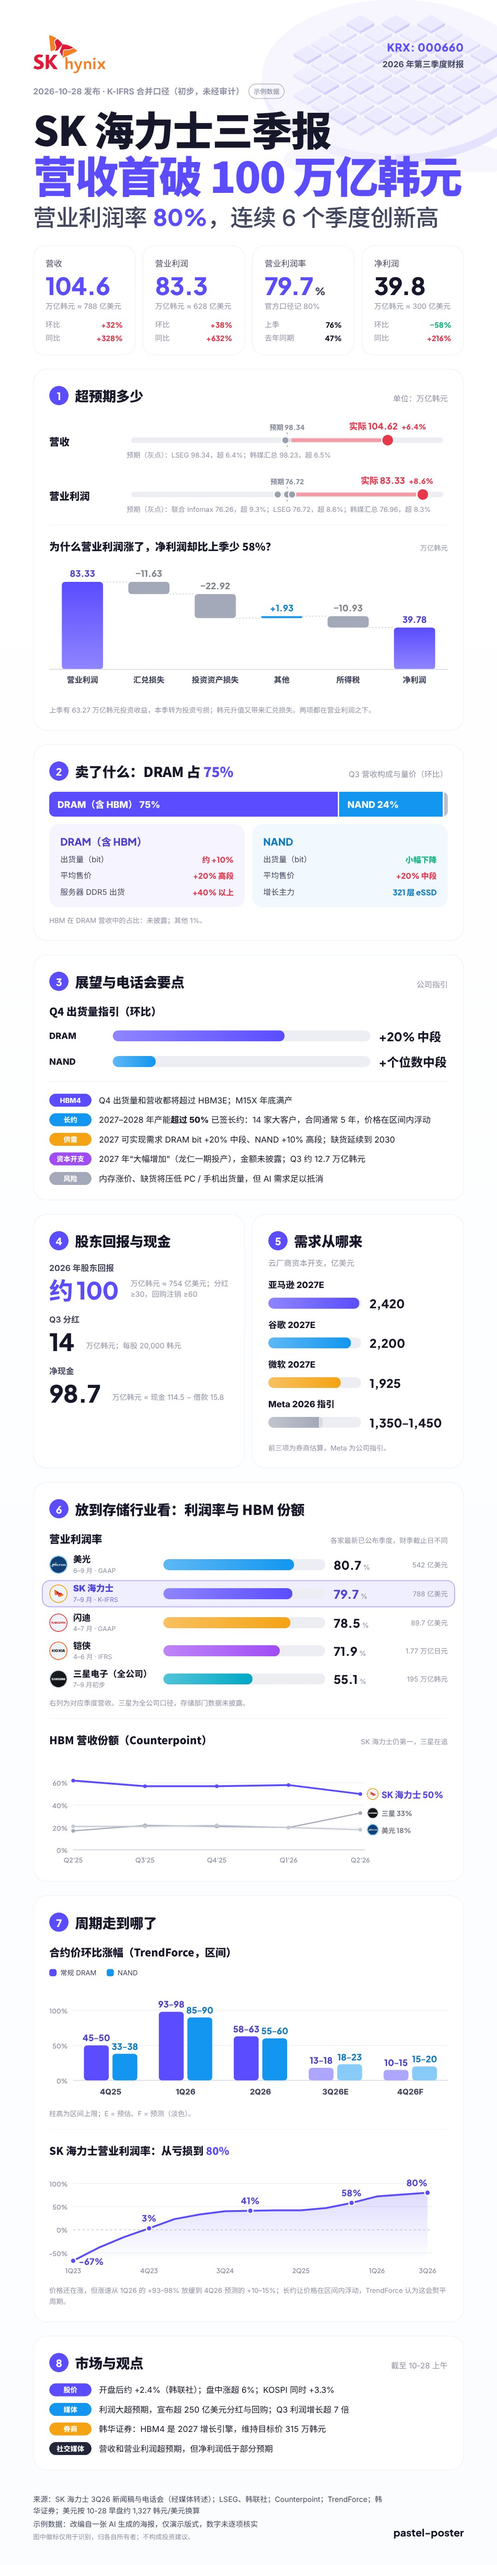
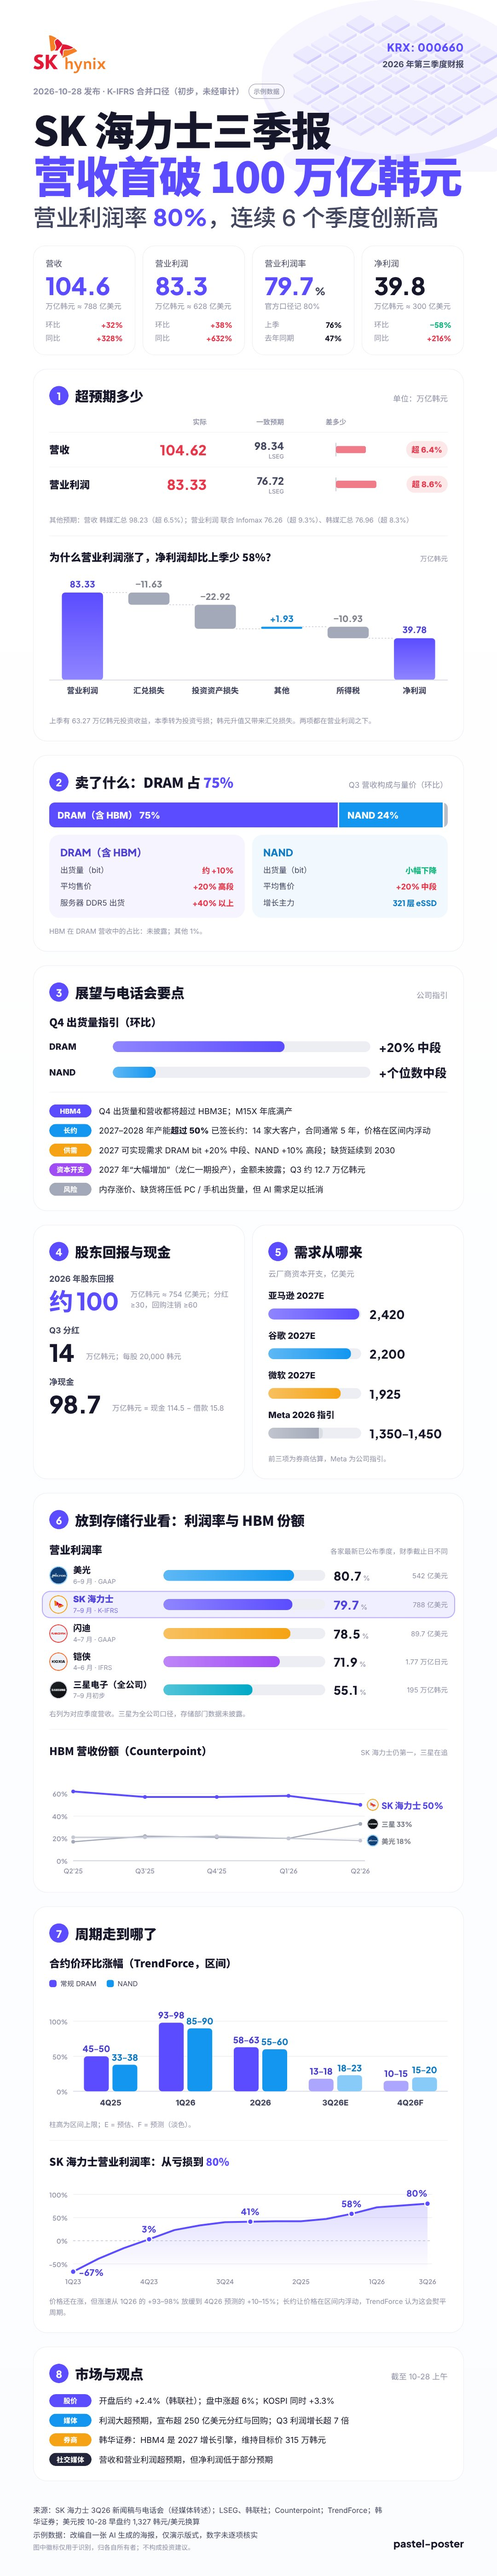
预期对比（beat）改成记分卡：指标 | 实际 | 一致预期 | 偏离条 | 结论 (#9)
原来的灰点、彩点、虚线要先懂图例才看得懂；改成逐行对照，结论直接写“超 6.4% / 低 9.4% / 符合”。
第一家预期作对比基准，其余列在下方；支持区间指引、单位、口径小字；并排时自动收成两列。
文档写清用法约束，校验提醒把公司指引放在第一家、缺预期、超过 6 行。

Claude-Session: https://claude.ai/code/session_0139H7ZCURJBvAAQ8BsmNvxP

diff --git a/skill/pastel-poster/assets/poster-template.html b/skill/pastel-poster/assets/poster-template.html
@@ -206,9 +206,22 @@ section.ver{margin-top:28px;display:grid;gap:10px}
 .kpis.list .kpi{border:none;padding:0;border-radius:0;background:none;grid-template-columns:auto minmax(0,1fr);grid-template-areas:"k k" "v d";column-gap:22px;align-items:end}
 .kpis.list .kpi .k{grid-area:k;font-weight:700} .kpis.list .kpi .v{grid-area:v} .kpis.list .kpi .d{grid-area:d;padding-bottom:8px;line-height:1.45}
 /* beat：实际 vs 预期 */
-.beat{display:grid;gap:22px}
-.bt-row{display:grid;grid-template-columns:150px minmax(0,1fr);gap:18px;align-items:start}
-.bt-row > b{font-size:22px;font-weight:900;padding-top:38px}
+.beat{display:grid}
+.bt-row{display:grid;grid-template-columns:minmax(0,1fr) 150px 150px 190px 130px;column-gap:18px;align-items:center;padding:16px 0;border-top:1.5px solid #eef0f4}
+.bt-row.hd{padding:0 0 10px;border:none;font-size:15px;color:var(--ink3);font-weight:600}
+.bt-row.hd > :nth-child(2),.bt-row.hd > :nth-child(3){text-align:right}
+.bt-k b{display:block;font-size:22px;font-weight:900;line-height:1.3}
+.bt-k span{display:block;font-size:14px;color:var(--ink3);margin-top:3px;line-height:1.4}
+.bt-a,.bt-e{text-align:right;font-family:var(--p-num);font-weight:800;line-height:1.1;white-space:nowrap}
+.bt-a{font-size:30px} .bt-a small,.bt-e small{font-size:15px;margin-left:3px;font-weight:600}
+.bt-e{font-size:22px;color:var(--ink2)} .bt-e span{display:block;font-family:var(--p-body);font-size:13px;color:var(--ink3);font-weight:500;margin-top:4px;white-space:normal}
+.bt-bar{position:relative;height:30px}
+.bt-bar i{position:absolute;top:7px;height:16px;border-radius:4px}
+.bt-bar .z{left:50%;top:0;height:30px;width:2px;margin-left:-1px;border-radius:0;background:#c9cdd8}
+.bt-v{text-align:right} .bt-v .pill{font-size:17px;padding:5px 12px;white-space:nowrap}
+.pill.flat{background:#eef0f4;color:var(--ink2)}
+.row .bt-row{grid-template-columns:minmax(0,1fr) auto auto;column-gap:14px} .row .bt-bar,.row .bt-row > span:nth-child(4),.row .bt-row.hd > span:nth-child(5){display:none}
+.row .bt-v{grid-column:1/-1;text-align:left;margin-top:6px} .row .bt-a{font-size:26px}
 /* mix：构成条 + 分项卡 */
 .mixbar{height:54px}
 .mixbar div{place-items:center start;padding:0 18px;font-family:var(--p-body);font-size:20px}
@@ -616,22 +629,6 @@ function legendHTML(items){return `<div class="legend">${items.map(([kind,c,labe
   return `<span>${sw}${esc(label)}</span>`}).join("")}</div>`}
 
 const CH={
-  // 同一组共用一把刻度：按偏离一致预期（各家中位）的百分比画，中线是预期；0.2% 和 5% 一眼能分出大小。预期不是正数时退回单行刻度
-  beat(el,w,{it,M}){const C=new Chart(w,72),est=(it.estimates||[]).map(e=>e.value),y=52,L=10,R=w-10;
-    const med=est.length?est.slice().sort((a,b)=>a-b)[est.length>>1]:it.actual;
-    const good=it.higher_better===false?it.actual<=med:it.actual>=med,c=good?UD.up:UD.down,lab=esc(it.actual_label||(/指引|guidance/i.test(it.label)?"指引":"实际"));
-    let x,mid;
-    if(M&&med>0){mid=(L+R)/2;x=v=>mid+Math.max(-1,Math.min(1,(v/med-1)*100/M))*(R-L)/2}
-    else{let lo=Math.min(...est,it.actual),hi=Math.max(...est,it.actual);const pad=(hi-lo)*.4||Math.abs(hi)*.05||1;lo-=pad;hi+=pad*.7;x=v=>L+(v-lo)/(hi-lo)*(R-L);mid=x(med)}
-    C.svg(`<rect x="${L}" y="${y-6}" width="${R-L}" height="12" rx="6" fill="#eceef4"/>`);
-    if(est.length)C.svg(`<rect x="${Math.min(mid,x(it.actual)).toFixed(1)}" y="${y-4}" width="${Math.abs(x(it.actual)-mid).toFixed(1)}" height="8" rx="4" fill="${mix(c,W,.5)}"/>`+
-      `<line x1="${mid.toFixed(1)}" x2="${mid.toFixed(1)}" y1="${y-17}" y2="${y+17}" stroke="#aab0bd" stroke-width="2" stroke-dasharray="4 3"/>`);
-    est.forEach(v=>C.svg(`<circle cx="${x(v).toFixed(1)}" cy="${y}" r="8" fill="#9aa1ae" stroke="#fff" stroke-width="2.5"/>`));
-    C.svg(`<circle cx="${x(it.actual).toFixed(1)}" cy="${y}" r="13" fill="${c}" stroke="#fff" stroke-width="3"/>`);
-    const d=est.length&&med?(it.actual/med-1)*100:null,ax=Math.min(Math.max(x(it.actual),110),w-110);
-    C.text(ax,y-20,`${lab} ${fmt(it.actual)}${d==null?"":`<small style="margin-left:8px">${d>=0?"+":"−"}${Math.abs(d).toFixed(1)}%</small>`}`,"","c","b",ink(c));
-    if(est.length&&Math.abs(ax-mid)>170)C.text(mid,y-20,`预期 ${fmt(med)}`,"sm","c","b","#8a90a0");
-    C.done(el)},
 
   waterfall(el,w,s){let run=0;const bars=s.items.map(it=>{let a,b;if(it.total){a=0;b=it.value??run;run=b}else{a=run;b=run+it.value;run=b}return{it,a,b}});
     const vals=bars.flatMap(b=>[b.a,b.b]),lo=Math.min(0,...vals),hi=Math.max(...vals);
@@ -743,11 +740,24 @@ const SEC={
   html(s){return s.html},
 
   // 实际 vs 预期：灰点为各家预期，彩点为实际，超预期用涨色、不及预期用跌色
-  beat(s){const devs=s.items.flatMap(it=>{const e=(it.estimates||[]).map(x=>x.value).sort((a,b)=>a-b),m=e[e.length>>1];return m>0?[it.actual,...e].map(v=>Math.abs(v/m-1)*100):[]});
-    const M=devs.length?Math.max(3,Math.max(...devs)*1.15):0;
-    return `<div class="beat">${s.items.map(it=>{const est=it.estimates||[];
-    const txt=est.map(e=>{const d=(it.actual/e.value-1)*100;return `${esc(e.name)} ${fmt(e.value)}，${d>=0?"超":"低"} ${Math.abs(d).toFixed(1)}%`}).join("；");
-    return `<div class="bt-row"><b>${esc(it.label)}</b><div><div class="chart" data-chart="${reg("beat",{it,M})}" style="height:72px"></div>${txt?`<div class="cap">预期（灰点）：${txt}</div>`:""}</div></div>`}).join("")}</div>`},
+  // 预期对比记分卡：指标 | 实际 | 一致预期 | 偏离条 | 结论。一眼读出“超了还是没超、差多少”，不用看图例。
+  // 第一家预期是对比基准；偏离按百分比、同一张卡共用刻度；|偏离| 小于 inline（默认 1%）算“符合”。实际值可写区间 [低, 高]（指引），按中点比
+  beat(s){const mid=v=>Array.isArray(v)?(v[0]+v[1])/2:v,show=(v,u)=>(Array.isArray(v)?`${fmt(v[0])}–${fmt(v[1])}`:fmt(v))+(u?`<small>${esc(u)}</small>`:"");
+    const rows=s.items.map(it=>{const e0=(it.estimates||[])[0],med=e0?e0.value:null,a=mid(it.actual); // 第一家是对比基准（一般写一致预期），其余几家只列在下方
+      const d=med>0?(a/med-1)*100:null;return{it,med,d}});
+    const M=Math.max(5,...rows.map(r=>Math.abs(r.d||0)))*1.08,inl=s.inline??1;
+    const head=`<div class="bt-row hd"><span></span><span>${esc(s.actual_title||"实际")}</span><span>${esc(s.estimate_title||"一致预期")}</span><span style="text-align:center">差多少</span><span></span></div>`;
+    return `<div class="beat">${head}${rows.map(({it,med,d})=>{const est=it.estimates||[],hb=it.higher_better!==false,guide=/指引|guidance/i.test(it.label)||it.actual_label;
+      const flat=d!=null&&Math.abs(d)<inl,good=d==null?null:hb?d>=0:d<=0,cls=flat||d==null?"flat":good?"up":"down",c=cls==="flat"?"#9aa1ae":cls==="up"?UD.up:UD.down;
+      const w=d==null?0:Math.abs(d)/M*50,bar=d==null?"":`<i class="b" style="${d>=0?"left:50%":`left:${(50-w).toFixed(2)}%`};width:${Math.max(w,.8).toFixed(2)}%;background:${mix(c,W,cls==="flat"?.2:.35)}"></i>`;
+      const verdict=d==null?"":flat?`符合 <small>${d>=0?"+":"−"}${Math.abs(d).toFixed(1)}%</small>`:`${d>=0?(guide?"高于":"超"):(guide?"低于":"低")} ${Math.abs(d).toFixed(1)}%`;
+      const src=est.length?esc(est[0].name):"";
+      const sub=it.note?esc(it.note):guide?esc(it.actual_label||"公司指引")+" vs 预期":"";
+      return `<div class="bt-row"><div class="bt-k"><b>${esc(it.label)}</b>${sub?`<span>${sub}</span>`:""}</div>`+
+        `<div class="bt-a" style="color:${cls==="flat"?"var(--ink)":ink(c)}">${show(it.actual,it.unit)}</div>`+
+        `<div class="bt-e">${med==null?"—":show(med,it.unit)}${src?`<span>${src}</span>`:""}</div>`+
+        `<div class="bt-bar"><i class="z"></i>${bar}</div><div class="bt-v">${verdict?`<span class="pill ${cls}">${verdict}</span>`:""}</div></div>`}).join("")}</div>`+
+      (rows.some(r=>(r.it.estimates||[]).length>1)?`<div class="cap" style="margin-top:12px">其他预期：${rows.filter(r=>(r.it.estimates||[]).length>1).map(r=>`${esc(r.it.label)} ${r.it.estimates.slice(1).map(e=>{const d=(mid(r.it.actual)/e.value-1)*100;return `${esc(e.name)} ${fmt(e.value)}（${d>=0?"超":"低"} ${Math.abs(d).toFixed(1)}%）`}).join("、")}`).join("；")}</div>`:"")},
   // 瀑布：total 项从 0 画起，其余项在累计值上浮动；state: solid 确定 / option 可选（斜纹）/ plan 计划（虚线框）
   waterfall(s){const st=[...new Set(s.items.map(i=>i.state||"solid"))],L=Object.assign({solid:"确定",option:"可选",plan:"计划"},s.legend||{});
     return `<div class="chart" data-chart="${reg("waterfall",{s})}"></div>${st.length>1?legendHTML(st.map(k=>[k,ACC,L[k]])):""}`},

diff --git a/skill/pastel-poster/scripts/validate_spec.py b/skill/pastel-poster/scripts/validate_spec.py
@@ -130,6 +130,12 @@ def validate(spec):
             for it in s["items"]:
                 if "actual" not in it:
                     errors.append(f"{where} 每项要有 actual（实际值）")
+                elif not it.get("estimates"):
+                    warnings.append(f"{where} 的“{it.get('label')}”没有 estimates，记分卡只放有一致预期的指标")
+                elif "指引" in str(it["estimates"][0].get("name", "")):
+                    warnings.append(f"{where} 的“{it.get('label')}”第一家预期是公司指引；第一家应写一致预期（LSEG、FactSet 等），指引放后面")
+            if len(s["items"]) > 6:
+                warnings.append(f"{where} 超过 6 行，只留最关键的指标")
         elif t == "waterfall":
             for it in s["items"]:
                 if "value" not in it and not it.get("total"):

diff --git a/skill/pastel-poster/references/sections.md b/skill/pastel-poster/references/sections.md
@@ -109,14 +109,20 @@
 - `layout:"list"`：竖排的大数字列表（左数字、右说明），适合放在 `row` 里。
 - 单位很长（“万亿韩元”）时写进 `note`，`unit` 留空，数字会更醒目；数字太宽会自动缩小。
 
-### `beat` 实际 vs 预期
+### `beat` 实际 vs 预期（记分卡）
 ```json
-{"type":"beat","items":[{"label":"营收","actual":104.62,"estimates":[{"name":"LSEG","value":98.34},{"name":"韩媒汇总","value":98.23}]}]}
+{"type":"beat","items":[
+  {"label":"营收","actual":104.62,"unit":"万亿韩元","estimates":[{"name":"LSEG","value":98.34},{"name":"韩媒汇总","value":98.23}]},
+  {"label":"Q4 营收指引","actual":[150,160],"estimates":[{"name":"LSEG","value":171}]}]}
 ```
-灰点是各家预期，虚线是一致预期（各家的中位数），彩点是实际；超预期用涨色，不及预期用跌色（成本类写 `"higher_better": false`）。
-- 同一个 `beat` 里的各行共用一把刻度，按“偏离一致预期的百分比”画：超 0.2% 几乎贴着虚线，超 30% 才拉到远处，不同单位（营收、EPS）也能放在一起比。预期不是正数（如亏损的 EPS）的那行改用自己的刻度。
-- 点旁写“实际 0.52 +30.0%”，下方逐家写出“超 6.4%”。标签里有“指引”的行自动写“指引”而不是“实际”；别的叫法用 `actual_label` 改。
-- 偏离差几十倍的两组数（如营收超 0.1%、EPS 低 40%）也可以放在一起，小的那行本来就该看起来很小；想单独看清小幅偏离时拆成两个 `beat`。
+一行一个指标：**指标 | 实际 | 一致预期 | 偏离条 | 结论**（“超 6.4%”“低 9.4%”“符合 +0.1%”）。读者不看图例也能读懂。
+- `estimates` 的**第一家是对比基准**，写一致预期（LSEG、FactSet、彭博、Visible Alpha 等）；其他几家和公司原指引放后面，自动列在下方小字里。不要把公司指引当一致预期放第一家。
+- 偏离按百分比算，同一张卡共用刻度，所以营收超 0.1% 的条几乎看不见、EPS 低 40% 的条拉满——这是对的。|偏离| 小于 `inline`（默认 1，即 1%）判为“符合”，用灰色。
+- 涨跌色表示好坏：成本、费用类写 `"higher_better": false`。
+- 指引行：`label` 里写“指引”，结论写成“高于 / 低于”；区间指引 `actual` 写 `[低, 高]`，按中点比。
+- `unit` 单位（可省略，卡片 `note` 写单位更简洁）；`note` 写在指标下的小字（如口径）；`actual_title` / `estimate_title` 改表头。
+- 只放有一致预期的指标，3～6 行；本季实际和下季指引可以放同一张卡，指引行排在后面。预期不是正数（如亏损的 EPS）时不算百分比，只列数字。
+- 并排（`row`）里会自动收成两列，结论移到下一行。
 
 ### `waterfall` 瀑布（拆解、分层口径）
 ```json

diff --git a/skill/pastel-poster/references/charts.md b/skill/pastel-poster/references/charts.md
@@ -13,7 +13,7 @@
 | **谁大谁小、排名**（量级、排序） | `bars`（排好序）、`ranking`（带 logo） | `bars style:"lollipop"`（条很多、长度接近时）、`columns`（类别少且是时间） | 饼图、雷达 |
 | **随时间变化**（趋势） | `line`（连续、点多）、`columns`（点少、强调每期的量） | `years`（3–8 年）、`sparks`（多个指标各看趋势）、`columns stack:true`（总量和构成一起变） | 面积堆叠多于 3 层 |
 | **前后两个时间点对比** | `slope`（看排名或方向变化） | `dumbbell`（看差距大小）、`bars` 两项 | 两条线的折线图 |
-| **偏离基准**（高于 / 低于目标、均值、常态） | `deviation`、`beat`（实际 vs 预期） | `heatmap`（多日、多项）、`stackbar diverging`（问卷态度） | 普通柱状图配一条均线 |
+| **偏离基准**（高于 / 低于目标、均值、常态） | `deviation`、`beat`（实际 vs 预期记分卡：一行一个指标，写实际、预期、偏离和结论） | `heatmap`（多日、多项）、`stackbar diverging`（问卷态度） | 普通柱状图配一条均线 |
 | **占整体多少**（部分与整体） | `donut`（≤6 项）、`mix`（一条 100% 条 + 量价说明） | `treemap`（项多或有分组）、`waffle`（“每 100 人里有几个”）、`holdings`（持仓）、`stackbar`（多组构成对比） | 3D 饼图、超过 6 块的饼 |
 | **单个百分比 / 完成度** | `rings` | `waffle`、`kpis` | 仪表盘指针 |
 | **一个总量怎么拆出来**（加减拆解） | `waterfall` | `flows`、`mix` | 堆叠柱 |
